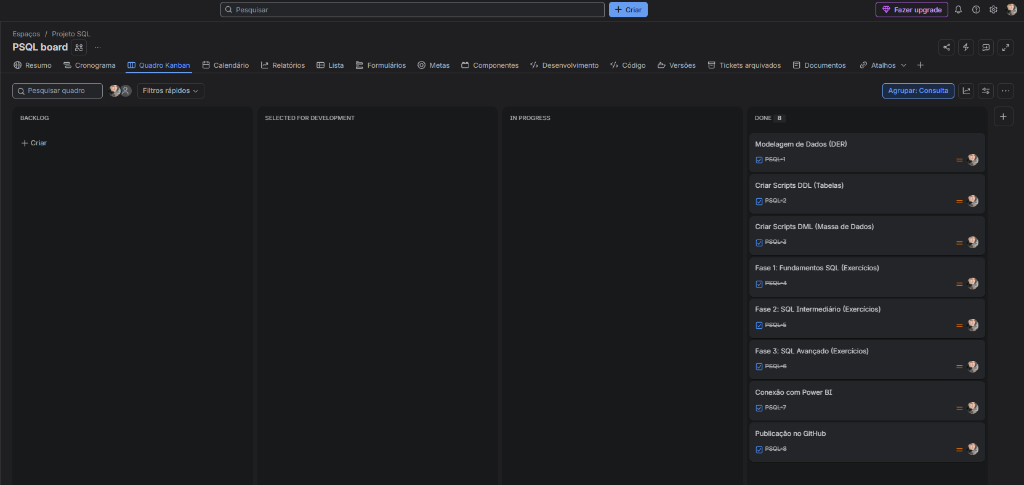
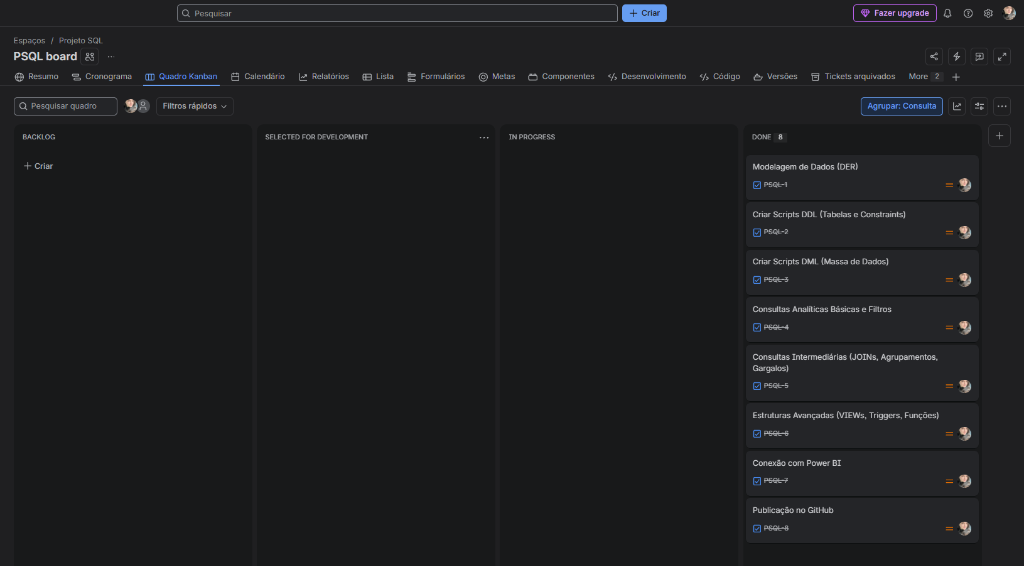
docs: atualizacao do quadro jira kanban e sincronizacao dos tickets

diff --git a/README.md b/README.md
@@ -220,9 +220,9 @@ O projeto foi gerenciado através de um quadro **Kanban no Jira**, aplicando boa
 | **PSQL-3** | Criar Scripts DML (Massa de Dados) | Concluído |
 | **PSQL-4** | Consultas Analíticas Básicas e Filtros | Concluído |
 | **PSQL-5** | Consultas Intermediárias (JOINs, Agrupamentos, Gargalos) | Concluído |
-| **PSQL-6** | Estruturas Avançadas (VIEWs, Triggers, Functions) | Concluído |
-| **PSQL-7** | Conexão com Power BI e Construção do Dashboard | Concluído |
-| **PSQL-8** | Documentação e Publicação no GitHub | Concluído |
+| **PSQL-6** | Estruturas Avançadas (VIEWs, Triggers, Funções) | Concluído |
+| **PSQL-7** | Conexão com Power BI | Concluído |
+| **PSQL-8** | Publicação no GitHub | Concluído |
 
 ---
 
